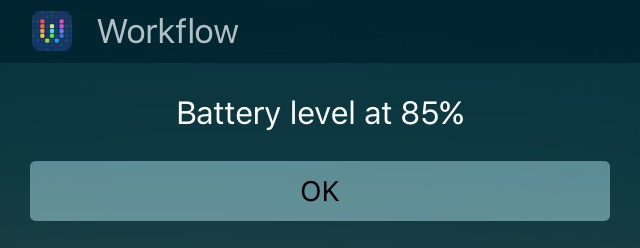
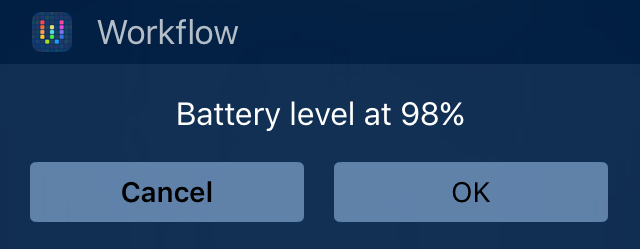
Upgrade the battery widget.

diff --git a/README.md b/README.md
@@ -52,7 +52,7 @@ You can install the workflow directly from [this link](https://workflow.is/workf
 
 ## Battery Level
 ### Description
-A simple workflow for your Today Widget which shows the current battery percentage. Useful for when you're not showing that information in the status bar.
+A simple workflow for your Today Widget which shows the current battery percentage. Clicking "OK" will take you to the battery settings page. Useful for when you're not showing that information in the status bar, or when you quickly want to enable low power mode.
 
 ![](readme_images/batterylevel01.png)
 
